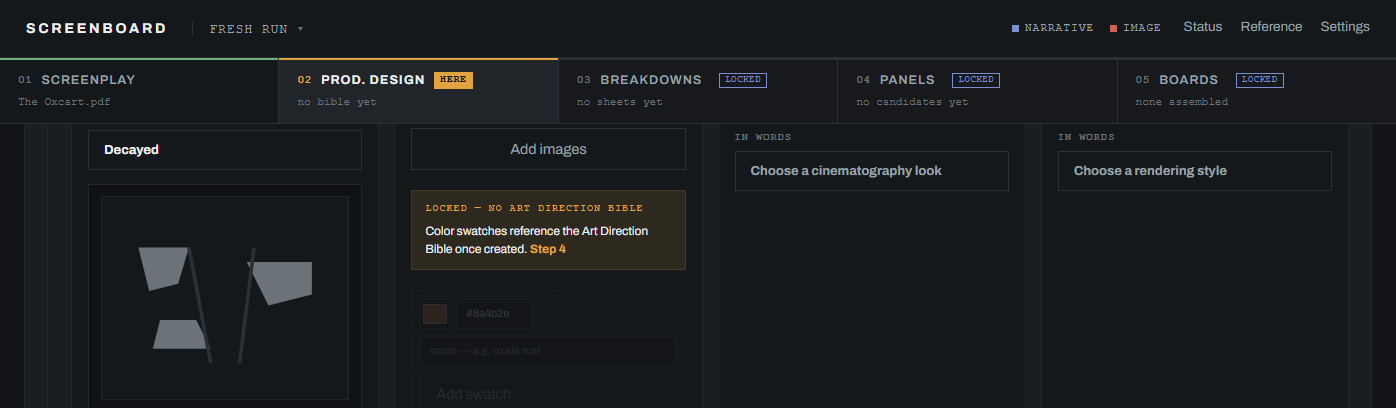
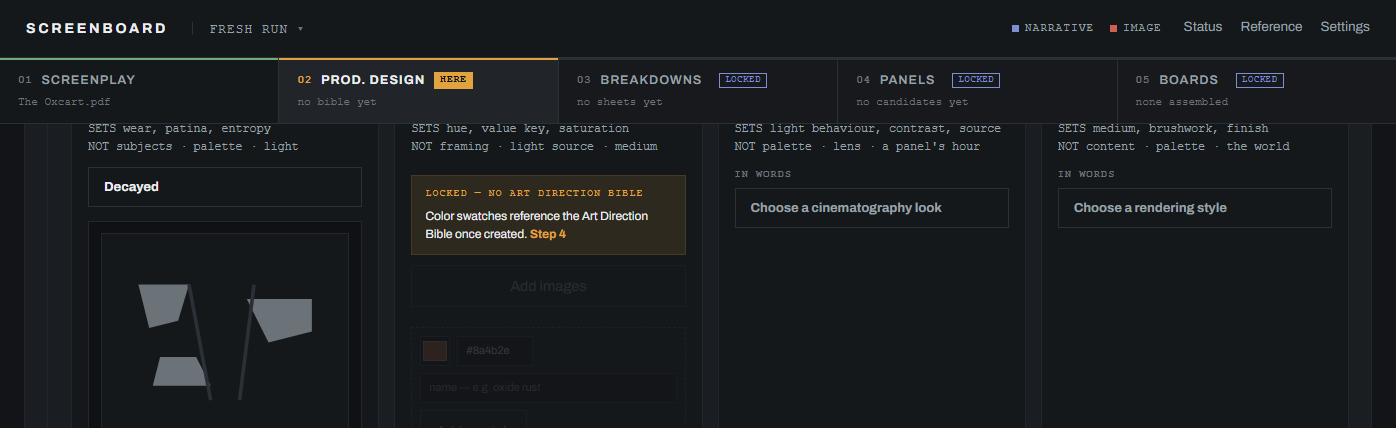
Add images is part of the palette, so it locks with it
Third pass on the same gate, and the pattern in my own work is the point:
I disabled the swatch adder, then the words field when told, then the
images button when told again. Each time I gated exactly what was named
and left the neighbours live, and each survivor read as the gate not
meaning it.

Everything in the column that STATES a palette is now locked together —
the hand-added colour, `In words`, `Add images` and its file input. What
stays reachable is what only READS: the existing thumbs and their viewer.
Verified by enumeration rather than by eye — no enabled control remains in
the column while it is locked.

The callout also moved above the first thing it disables. It had been
sitting between `Add images` and the swatch adder, which explained the
controls beneath it and left the one above unaccounted for.

diff --git a/app/static/app.js b/app/static/app.js
@@ -4295,22 +4295,36 @@ async function renderWizard() {
       const b = await api("/api/style-bible").catch(() => ({ text: "" }));
       const locked = !b.text.trim();
 
+      /* Everything in the column that STATES a palette, locked together:
+         the hand-added colour, the words, and the reference images (user,
+         2026-08-22, in three passes — each live control left behind read
+         as the gate not meaning it). What stays reachable is what only
+         reads: the existing thumbs and their viewer. */
       add.classList.toggle("is-locked", locked);
       $$("input, button", add).forEach(el => { el.disabled = locked; });
-      // The words half of the anchor is gated with the colour half (user,
-      // 2026-08-22) — one statement about palette, one lock.
+
       const words = $("[data-f=words]", col);
       if (words) {
         words.disabled = locked;
         words.closest(".wiz-words")?.classList.toggle("is-locked", locked);
       }
 
+      const addImgs = $("[data-f=addbtn]", col);
+      if (addImgs) {
+        addImgs.disabled = locked;
+        addImgs.classList.toggle("is-locked", locked);
+      }
+      const files = $("[data-f=files]", col);
+      if (files) files.disabled = locked;
+
       if (!locked) { if (gate) gate.remove(); return; }
       if (!gate) {
         gate = document.createElement("div");
         gate.className = "pal-gate";
         gate.dataset.f = "pal-gate";
-        add.parentElement.insertBefore(gate, add);
+        // Above the first thing it disables, not in the middle of them —
+        // a gate under half its own controls explains them too late.
+        col.insertBefore(gate, addImgs || add);
       }
       // Copy and shape are the user's, verbatim (2026-08-22). No verb:
       // the step it names is on the same page, and a button that scrolls

diff --git a/app/static/styles.css b/app/static/styles.css
@@ -2241,6 +2241,7 @@ details.meta pre {
 .swatch-add.is-locked input, .swatch-add.is-locked button,
 .wiz-words.is-locked input { cursor: not-allowed; }
 .wiz-words.is-locked { opacity: .4; }
+.wiz-add-btn.is-locked { opacity: .4; cursor: not-allowed; }
 .wiz-thumb-note { display: block; font-family: var(--mono); font-size: 8.5px;
   letter-spacing: .04em; color: var(--ink-faint); margin-top: 2px;
   white-space: nowrap; overflow: hidden; text-overflow: ellipsis; }

diff --git a/tests/test_credential_blocker.py b/tests/test_credential_blocker.py
@@ -258,11 +258,19 @@ class ThePaletteIsGatedOnTheBible(unittest.TestCase):
         self.assertNotIn("pal-go", b)
         self.assertNotIn("<button", b)
 
-    def test_the_words_half_is_locked_with_the_colour_half(self):
-        """One statement about palette, one lock."""
+    def test_everything_that_states_a_palette_is_locked_together(self):
+        """Three passes, one per control left behind — the hand-added
+        colour, then the words, then Add images. Each survivor read as the
+        gate not meaning it."""
         b = self.body()
-        self.assertIn('const words = $("[data-f=words]", col)', b)
-        self.assertIn("words.disabled = locked", b)
+        self.assertIn('$$("input, button", add).forEach', b)   # the adder
+        self.assertIn("words.disabled = locked", b)            # the words
+        self.assertIn("addImgs.disabled = locked", b)          # the images
+        self.assertIn('$("[data-f=files]", col)', b)           # and its input
+
+    def test_the_callout_precedes_what_it_disables(self):
+        """A gate under half its own controls explains them too late."""
+        self.assertIn("col.insertBefore(gate, addImgs || add);", self.body())
 
     def test_the_gate_goes_when_the_bible_arrives(self):
         b = self.body()

diff --git a/app/static/DESIGN_SYSTEM.md b/app/static/DESIGN_SYSTEM.md
@@ -1724,7 +1724,7 @@ different vocabularies, and a ruling for one is not a ruling for the other.
 
 | Date | Pattern | Used in | Why nothing existing worked |
 |---|---|---|---|
-| 2026-08-22 | **A gate you cannot act through** (`.pal-gate`, user: "it's not disabled, totally unclear, I can add swatches — disable this section with an obvious callout on why"): stage 02's Color Palette manual swatch adder is genuinely disabled — every input and its verb — while no Art Direction Bible is saved, behind an `--accent-line` framed, `--accent-soft` filled block with a Courier amber kicker `LOCKED — NO ART DIRECTION BIBLE` and one 12px sentence, the user's own copy verbatim: "Color swatches reference the Art Direction Bible once created. **Step 4**" — the step named in bold amber inline, with **no verb** (ruled 2026-08-22: the step is on the same page and a button that only scrolls is not worth a primary's weight). The column's `In words` field locks with the swatch adder — one statement about palette, one lock. It is the column's only amber while locked, and it removes itself the moment a Bible exists | Stage 02, Color Palette column | New pattern: canon has stated gates (`.up-gate`, 9.5px `--ink-faint` beneath a disabled control) but nothing for a gate that must OUT-WEIGH the control it governs. The faint line was tried first and the user's reply was "totally unclear" — it is compliant and unreadable beside a live input. Review (1) whether `.up-gate` and `.pal-gate` should be one scale with two weights rather than two patterns; (2) amber-on-amber-soft as a block fill, which no other surface uses; (3) **the product question underneath**: a hand-added swatch is attached to the Bible draft as a reference photo, so gating it removes the director's ability to state palette colour BEFORE the Bible is written. The user asked for the gate knowing the column also holds `Add images` and `In words`, which stay live; if colour-in-advance matters, the gate belongs on generation only |
+| 2026-08-22 | **A gate you cannot act through** (`.pal-gate`, user: "it's not disabled, totally unclear, I can add swatches — disable this section with an obvious callout on why"): stage 02's Color Palette manual swatch adder is genuinely disabled — every input and its verb — while no Art Direction Bible is saved, behind an `--accent-line` framed, `--accent-soft` filled block with a Courier amber kicker `LOCKED — NO ART DIRECTION BIBLE` and one 12px sentence, the user's own copy verbatim: "Color swatches reference the Art Direction Bible once created. **Step 4**" — the step named in bold amber inline, with **no verb** (ruled 2026-08-22: the step is on the same page and a button that only scrolls is not worth a primary's weight). Everything in the column that STATES a palette locks together — the swatch adder, `In words` and `Add images` — and the block sits above the first of them; only the existing thumbs and their viewer stay reachable, because those only read. It is the column's only amber while locked, and it removes itself the moment a Bible exists | Stage 02, Color Palette column | New pattern: canon has stated gates (`.up-gate`, 9.5px `--ink-faint` beneath a disabled control) but nothing for a gate that must OUT-WEIGH the control it governs. The faint line was tried first and the user's reply was "totally unclear" — it is compliant and unreadable beside a live input. Review (1) whether `.up-gate` and `.pal-gate` should be one scale with two weights rather than two patterns; (2) amber-on-amber-soft as a block fill, which no other surface uses; (3) **the product question underneath**: a hand-added swatch is attached to the Bible draft as a reference photo, so gating it removes the director's ability to state palette colour BEFORE the Bible is written. The user asked for the gate knowing the column also holds `Add images` and `In words`, which stay live; if colour-in-advance matters, the gate belongs on generation only |
 | 2026-08-21 | **Preview the read** (owner tools only): Settings &rarr; Debug tools gains a `Preview the read on stage 01` verb that replays the reading surface against the screenplay the install already holds. It walks the SAME local parse the real read does, so the ladder, the snapshots and the observations are real; what it cannot do is call a model, so it stops at a fourth phase, `previewed`, which states `PREVIEW ONLY — THE PARSE IS COMPLETE AND REAL. NO MODEL WAS CALLED, SO THE READ'S OWN FINDINGS ARE NOT HERE.` and offers `Close preview`. The header's engine slot reads `PREVIEW — NO MODEL CALLED` in place of an engine name | Settings &rarr; Debug tools; stage 01 | Built from canon — review the copy and the fourth phase only. The panel itself is the 2026-08-20 read surface. Worth a ruling on (1) whether a phase strip that stops short should show MODEL and FOUND at all, or drop them — today they sit unlit, which reads as "not yet" rather than "not coming"; (2) whether an owner-only preview belongs in the Uncanonized queue at all, since no customer can reach it |
 | 2026-08-20 | **The read, as it happens** (user: "this part needs to be fun"): the screenplay's read takes minutes and reported itself with two toasts and nothing between them. A panel now leads stage 01 for the duration — a **scene ladder** (one Courier row per parsed slugline, its bar filling over the dwell), the scene's **own lines set as screenplay** beside it, and a ticker of observations that are counts (`VERA speaks in 3 of 5 scenes — probably a lead`). Three phases as a sentence, not a bar: PARSE (`--ok`), MODEL, FOUND. The panel's **one amber is the bar of the scene being read now** — the phase strip deliberately yields it, and during MODEL there is no amber at all, because nothing is current. Everything shown is parsed locally from `GET /api/screenplay/digest`; the model's phase says in words that it has one call and no per-scene progress to report, and is given no bar to lie with | Stage 01, while a read runs | New pattern: a **progressive** meter, which canon does not have — `.loc-meter` counts coverage in four fixed segments and is finished the moment it is drawn. Review (1) whether live feedback for an opaque remote call should be made of local work at all, or whether that is a borrowed progress bar wearing an honest label; (2) the ladder's dwell — it is paced to ~60s regardless of the real call, so a fast read finishes with bars still filling and a slow one sits in MODEL; (3) the screenplay-format snapshot, which is the first place the app sets the script as a script rather than as data; (4) whether FOUND should stay in this panel or hand off to stage 02 **Amended 2026-08-21 after the first watched run:** the panel is a FIXED height end to end — the snapshot column re-flowed per scene and the finding feed grew as it filled, so the surface popped for the whole read; both are reserved now and long content scrolls in place. The findings moved off the footnote and onto their own `--field` ground with an `--ok` rule, at 13px, newest at full ink and older ones stepping back. The MODEL phase gained the app's own `.busy` spinner reading `Scoping production needs`, and while it runs `body[data-read-busy]` disables every action and field in the view — navigation deliberately excluded, since locking someone out of their own app for the length of a model call is worse than the double-spend it prevents. |
 | 2026-08-18 | **The screenplay is locked until a model is connected** (user, reversing two rulings from the same day's pass): `POST /api/screenplay` refuses with 423, both upload forms disable their file input and their verb, and the condition is stated beneath in Courier with `Connect one ↗` beside it. The Status lead no longer renders the upload form when it cannot be used — it falls through to the promoted `KEY` blocker, so the lead never names an act the studio will refuse. The `KEY` row now **leads** the blocking list. The walkthrough starts on Settings → AI & engines on a **third tour surface, `page`** — docked in a corner, **no scrim, no cutout, the page fully usable** — because OpenRouter, OpenAI, Gemini, Anthropic and a custom endpoint are all correct answers and a cutout around one of them would be the app recommending it. Held until a credential exists, skipped for a studio that already has one. Meanwhile **every stage in the band is locked by the app**, with the credential as the first link in the existing gate chain — so someone who skips the tour meets the same wall and the tour explains the gate rather than being it | Status lead, stage 01, the blocking order, the walkthrough | **This reverses TRIAGE §3.1 and §2**, which removed the walkthrough's credential step (*a tour does not teach what a blocker already states*) and kept the upload unblocked with the screenplay leading (*the upload needs no engine and is the root dependency*). Both were sound before the user ruled that the upload requires an engine; that premise is now void. Review (1) whether a tour step held on a credential is still a tour or has become a wizard — it is the only step in the app that cannot be passed by reading; (2) the `page` surface itself — a tour popover with no scrim is new, and it raises whether a step with nothing dimmed still reads as part of a sequence; (3) the gate line's tier, which sits under a disabled control rather than beside it; (4) whether `DO THIS NEXT` should ever be a blocker's own text, which it now is on a keyless install |
